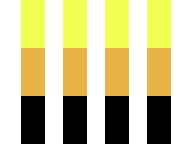
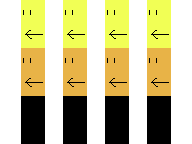
テクスチャを見て移動方向が分かるようにした
落下以外の通常サイズのテクスチャを作った。落下の表現考えてない...

diff --git a/main.js b/main.js
@@ -34,9 +34,15 @@ function loadResources() {
         terrain_wall_texture: loadStaticTexture("image/terrain/wall.png", 24, 24, 10, 0, true, 0),
         terrain_ladder_texture: loadStaticTexture("image/terrain/ladder.png", 24, 24, 11, 0, true, 0),
         terrain_condenser_texture: loadAnimationTexture("image/terrain/condenser.png", 36, 24, 13, 0, true, [30, 60, 90], true, 0),
-        player_wait_texture: loadStaticTexture("image/player/wait.png", 24, 48, 12, 24, true, 3),
-        player_walk_left_texture: loadAnimationTexture("image/player/walk_left.png", 48, 48, 12, 24, true, [30, 60, 90, 120], false, 3),
+        player_stand_right_texture: loadStaticTexture("image/player/stand_right.png", 24, 48, 12, 24, true, 3),
+        player_stand_left_texture: loadStaticTexture("image/player/stand_left.png", 24, 48, 12, 24, true, 3),
+        player_hold_texture: loadStaticTexture("image/player/hold.png", 24, 48, 12, 24, true, 3),
         player_walk_right_texture: loadAnimationTexture("image/player/walk_right.png", 48, 48, 36, 24, true, [30, 60, 90, 120], false, 3),
+        player_walk_left_texture: loadAnimationTexture("image/player/walk_left.png", 48, 48, 12, 24, true, [30, 60, 90, 120], false, 3),
+        player_climb_right_texture: loadAnimationTexture("image/player/climb_right.png", 48, 72, 36, 24, true, [30, 60, 90, 120], false, 3),
+        player_climb_left_texture: loadAnimationTexture("image/player/climb_left.png", 48, 72, 12, 24, true, [30, 60, 90, 120], false, 3),
+        player_climb_up_texture: loadAnimationTexture("image/player/climb_up.png", 24, 72, 12, 24, true, [30, 60, 90, 120], false, 3),
+        player_climb_down_texture: loadAnimationTexture("image/player/climb_down.png", 24, 72, 12, 48, true, [30, 60, 90, 120], false, 3),
     };
     function loadImage(source, onload = () => { }) {
         const image = new Image();
@@ -280,7 +286,7 @@ function createPlayer() {
     return {
         coord: createCoord(0, 0),
         isSmall: false,
-        texture: cloneAndReplayTexture(resources.player_wait_texture),
+        texture: cloneAndReplayTexture(resources.player_stand_right_texture),
     };
 }
 //そこにプレイヤーが入るスペースがあるか判定。空中でもtrue
@@ -309,7 +315,7 @@ function checkLeft(coord, terrain, isSmall) {
     // 上がふさがってなくて左上が空いているならそこ
     if (canEnter(upCoord(coord), terrain, isSmall)
         && canEnter(leftCoord(upCoord(coord)), terrain, isSmall))
-        return { coord: leftCoord(upCoord(coord)), actionType: "climb", texture: resources.player_walk_left_texture };
+        return { coord: leftCoord(upCoord(coord)), actionType: "climb", texture: resources.player_climb_left_texture };
     return null;
 }
 function checkRight(coord, terrain, isSmall) {
@@ -319,7 +325,7 @@ function checkRight(coord, terrain, isSmall) {
     // 上がふさがってなくて右上が空いているならそこ
     if (canEnter(upCoord(coord), terrain, isSmall)
         && canEnter(rightCoord(upCoord(coord)), terrain, isSmall))
-        return { coord: rightCoord(upCoord(coord)), actionType: "climb", texture: resources.player_walk_right_texture };
+        return { coord: rightCoord(upCoord(coord)), actionType: "climb", texture: resources.player_climb_right_texture };
     return null;
 }
 function checkUp(coord, terrain, isSmall) {
@@ -327,13 +333,13 @@ function checkUp(coord, terrain, isSmall) {
     if ((getBlock(terrain, coord).collision === "ladder" ||
         getBlock(terrain, upCoord(coord)).collision === "ladder") &&
         canStand(upCoord(coord), terrain, isSmall))
-        return { coord: upCoord(coord), actionType: "climb", texture: resources.player_wait_texture };
+        return { coord: upCoord(coord), actionType: "climb", texture: resources.player_climb_up_texture };
     return null;
 }
 function checkDown(coord, terrain, isSmall) {
     // 真下が空いてるなら（飛び）下りる？
     if (canEnter(downCoord(coord), terrain, isSmall))
-        return { coord: downCoord(coord), actionType: "climb", texture: resources.player_wait_texture };
+        return { coord: downCoord(coord), actionType: "climb", texture: resources.player_climb_down_texture };
     return null;
 }
 //プレイヤーを直接動かす。落とす処理もする。

diff --git a/gameobject.ts b/gameobject.ts
@@ -15,7 +15,7 @@ function createPlayer(): Player {
     return {
         coord: createCoord(0, 0),
         isSmall: false,
-        texture: cloneAndReplayTexture(resources.player_wait_texture),
+        texture: cloneAndReplayTexture(resources.player_stand_right_texture),
     };
 }
 
@@ -54,7 +54,7 @@ function checkLeft(coord: Coord, terrain: Terrain, isSmall: boolean): MoveResult
     // 上がふさがってなくて左上が空いているならそこ
     if (canEnter(upCoord(coord), terrain, isSmall)
         && canEnter(leftCoord(upCoord(coord)), terrain, isSmall))
-        return { coord: leftCoord(upCoord(coord)), actionType: "climb", texture: resources.player_walk_left_texture};
+        return { coord: leftCoord(upCoord(coord)), actionType: "climb", texture: resources.player_climb_left_texture};
     return null;
 }
 function checkRight(coord: Coord, terrain: Terrain, isSmall: boolean): MoveResult {
@@ -64,7 +64,7 @@ function checkRight(coord: Coord, terrain: Terrain, isSmall: boolean): MoveResul
     // 上がふさがってなくて右上が空いているならそこ
     if (canEnter(upCoord(coord), terrain, isSmall)
         && canEnter(rightCoord(upCoord(coord)), terrain, isSmall))
-        return { coord: rightCoord(upCoord(coord)), actionType: "climb", texture: resources.player_walk_right_texture };
+        return { coord: rightCoord(upCoord(coord)), actionType: "climb", texture: resources.player_climb_right_texture };
     return null;
 }
 function checkUp(coord: Coord, terrain: Terrain, isSmall: boolean): MoveResult {
@@ -72,13 +72,13 @@ function checkUp(coord: Coord, terrain: Terrain, isSmall: boolean): MoveResult {
     if ((getBlock(terrain, coord).collision === "ladder" ||
         getBlock(terrain, upCoord(coord)).collision === "ladder") &&
         canStand(upCoord(coord), terrain, isSmall))
-        return { coord: upCoord(coord), actionType: "climb", texture: resources.player_wait_texture };
+        return { coord: upCoord(coord), actionType: "climb", texture: resources.player_climb_up_texture};
     return null;
 }
 function checkDown(coord: Coord, terrain: Terrain, isSmall: boolean): MoveResult {
     // 真下が空いてるなら（飛び）下りる？
     if (canEnter(downCoord(coord), terrain, isSmall))
-        return { coord: downCoord(coord), actionType: "climb", texture: resources.player_wait_texture };
+        return { coord: downCoord(coord), actionType: "climb", texture: resources.player_climb_down_texture };
     return null;
 }
 

diff --git a/resources.ts b/resources.ts
@@ -18,9 +18,15 @@ function loadResources() {
         terrain_wall_texture: loadStaticTexture("image/terrain/wall.png", 24, 24, 10, 0, true, 0),
         terrain_ladder_texture: loadStaticTexture("image/terrain/ladder.png", 24, 24, 11, 0, true, 0),
         terrain_condenser_texture: loadAnimationTexture("image/terrain/condenser.png", 36, 24, 13, 0, true, [30, 60, 90], true, 0),
-        player_wait_texture: loadStaticTexture("image/player/wait.png", 24, 48, 12, 24, true, 3),
-        player_walk_left_texture: loadAnimationTexture("image/player/walk_left.png", 48, 48, 12, 24, true, [30, 60, 90, 120], false, 3),
+        player_stand_right_texture: loadStaticTexture("image/player/stand_right.png", 24, 48, 12, 24, true, 3),
+        player_stand_left_texture: loadStaticTexture("image/player/stand_left.png", 24, 48, 12, 24, true, 3),
+        player_hold_texture: loadStaticTexture("image/player/hold.png", 24, 48, 12, 24, true, 3),
         player_walk_right_texture: loadAnimationTexture("image/player/walk_right.png", 48, 48, 36, 24, true, [30, 60, 90, 120], false, 3),
+        player_walk_left_texture: loadAnimationTexture("image/player/walk_left.png", 48, 48, 12, 24, true, [30, 60, 90, 120], false, 3),
+        player_climb_right_texture: loadAnimationTexture("image/player/climb_right.png", 48, 72, 36, 24, true, [30, 60, 90, 120], false, 3),
+        player_climb_left_texture: loadAnimationTexture("image/player/climb_left.png", 48, 72, 12, 24, true, [30, 60, 90, 120], false, 3),
+        player_climb_up_texture: loadAnimationTexture("image/player/climb_up.png", 24, 72, 12, 24, true, [30, 60, 90, 120], false, 3),
+        player_climb_down_texture: loadAnimationTexture("image/player/climb_down.png", 24, 72, 12, 48, true, [30, 60, 90, 120], false, 3),
     } as const;
 
     function loadImage(source: string, onload: ()=>void = () => {}): HTMLImageElement {
